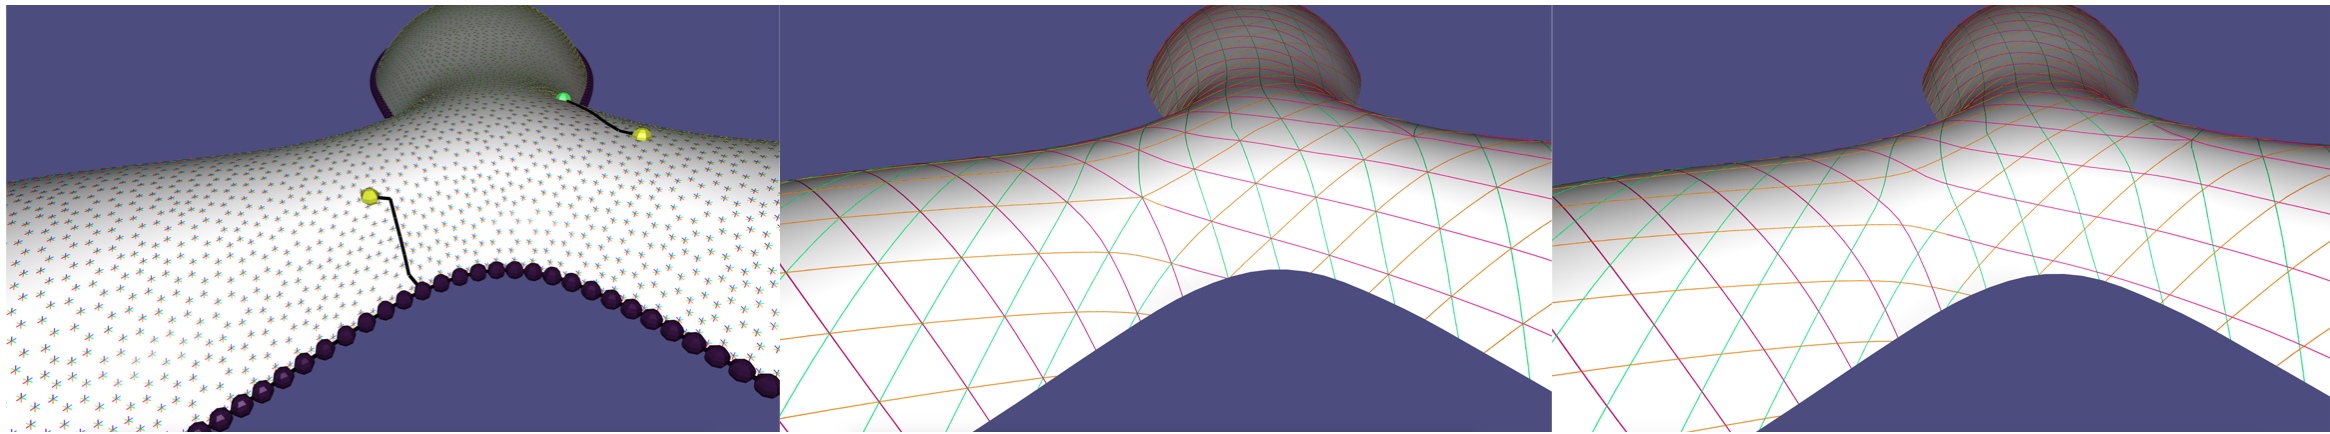
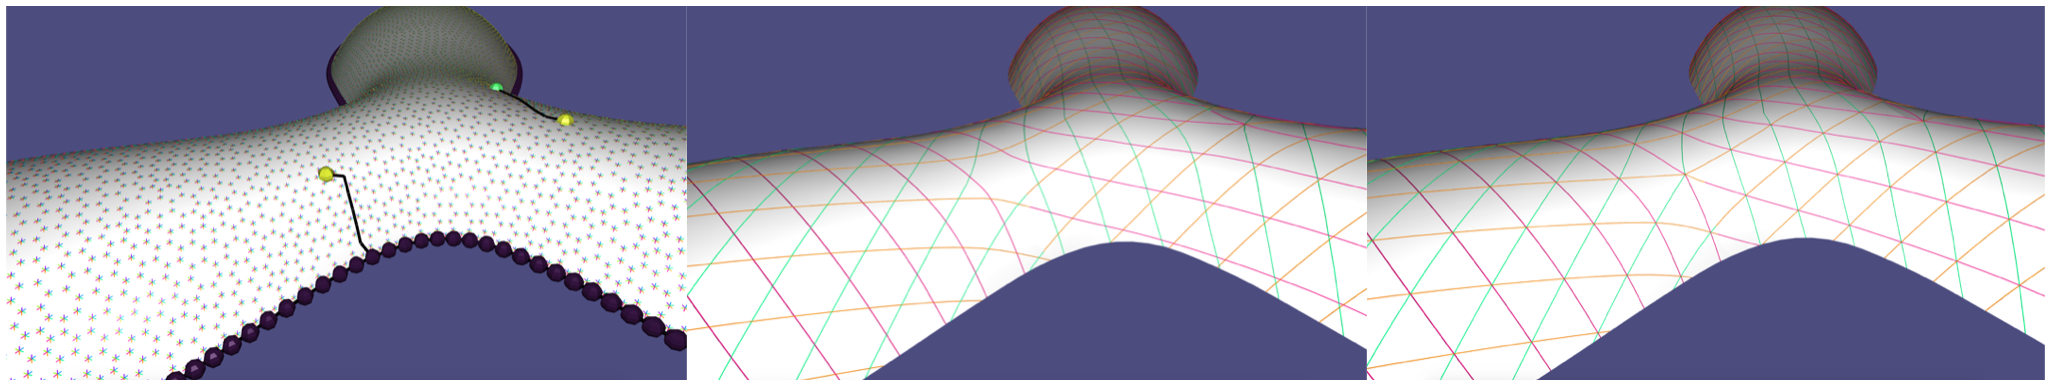
Tutorial is complete.

Changed region(s): [[0.0, 0.0, 1.0, 1.0], [0.1873, 0.0576, 0.2185, 0.144]]

diff --git a/docs/tutorial.md b/docs/tutorial.md
@@ -263,9 +263,9 @@ The singularity indices that are prescribed contain the singularity index corres
 
 The full details of the method implemented in this chapter can be found in a technical report [^Vaxman_2021]. Many of the therotical ideas for general $N$-functions are explored in[^Meekes_2021].
 
-$N$-Directional fields are commonly used as candidate gradients to seamless $N$-Functions, which in turn are used to generate meshes that are aligned to the original fields [^Bommes_2009],[^Kaelberer_2007],[^Myles_2014],[^Meekes_2021]. Recall that [combing](#203-combing) trivializes the matching everywhere except a sparse set of seams. We augment these seams so that the mesh is cut into a topological disc. Then, we treat a combed $N$-directional $\left\{u_0,\cdots,u_{N-1}\right\}$ as a set of $N$ candidate gradients for $N$ vertex-based scalar functions $\left\{F_0,\cdots,F_{N-1}\right\}$ on the cut mesh. We then solve the Poisson problem:
+$N$-Directional fields are commonly used as candidate gradients to seamless $N$-Functions, which are in turn used to generate meshes that are aligned to the original fields [^Bommes_2009],[^Kaelberer_2007],[^Myles_2014],[^Meekes_2021]. Recall that [combing](#203-combing) trivializes the matching everywhere except a sparse set of seams. We augment these seams so that the mesh is cut into a topological disc. Then, we treat a combed $N$-directional $\left\{u_0,\cdots,u_{N-1}\right\}$ as a set of $N$ candidate gradients for $N$ vertex-based scalar functions $\left\{F_0,\cdots,F_{N-1}\right\}$ on the cut mesh. We then solve the Poisson problem:
 
-$$F = argmin{\sum_{i=0}^{N-1}{\left|\nabla F_i - u_i\right|^2}}$$.
+$$F = argmin{\sum_{i=0}^{N-1}{\left|\nabla F_i - u_i\right|^2}}$$
 
 Consider a seam edge $e_{ij}$ between original vertices $v_i$ and $v_j$, and between adjacent faces $f_k$ and $f_l$. The two vertices are then cut into four corners $v_{i,k},v_{j,k},v_{i,l},v_{j,l}$. Note that some corners might be identical, if the seam edge is at a singularity. Across the seam edge, we enforce the (linear) seamless conditions:
 
@@ -317,7 +317,7 @@ bool localInjectivity;  //Enforce local injectivity; might result in failure!
 
 ### 502 Integration in various orders
 
-Directional can handle integration for every $N$, including less common ones like the non-periodic $N \neq 2,3,4,6$. The properties of fields and integration in such unconventional $N$ are explored in [Meekes_2021].
+Directional can handle integration for every $N$, including less common ones like the non-periodic $N \neq 2,3,4,6$. The properties of fields and integration in such unconventional $N$ are explored in [^Meekes_2021].
 
 In this example we demonstrate the results for $N=2,4,7,11$, for the same ```lengthRatio```, and all fully seamless. Note that the density of the isolines increases with $N$, and that we round the singularity function values, leading to junctions of multiple isolines meeting. This is demonstrated in [Example 502]({{ repo_url }}/tutorial/502_DifferentOrders/main.cpp). 
 
@@ -326,20 +326,20 @@ In this example we demonstrate the results for $N=2,4,7,11$, for the same ```len
 
 ### 503 Rounding either seams or singularities
 
-It is possible to choose whether to round $T_e \in \mathbb{Z}^N$ directly, or the values around singularities (and of topological handles, in case of non-simply-connected topology). In both cases the seams will be integer, but the latter case is more restrictive and will result in multiple isolines meeting in every singularity.
+It is possible to choose whether to round the seam jumps $T_e \in \mathbb{Z}^N$ directly, or the function values around singularities (and of topological handles, in case of non-simply-connected topology). In both cases the seams will have integer values, but the latter case is more restrictive and will result in multiple isolines meeting at every singularity. For quad meshes with $N=4$, for instance, this is the difference between pure-quad results (round singularities), or just quad-dominant (round seams).
 
 ![([Example 503]({{ repo_url }}/tutorial/503_SeamsSingsRounding/main.cpp)) Left to right (bottom is zoom-in of top): Field, rounding only seams (leading to the right singularity being offset), and rounding singularity function values directly.](images/503_SeamsSingsRounding.png)
 
 ### 504 Linear Reductions
 
-It is possible to constrain the functions to have linear relations between them, which reduce the degrees of freedom. This is done by inputting a matrix $U: N \times n$ so that $n \leq N$, and where $F = U\cdot f$. This relationship should be mirrored in the integrated directional field. *Warning*: not every linear reduction is suitable for integration on surfaces! it needs to commute with the permutation around singularities. Feeding an incompatible linear reduction might then result in a failure of the algorithm. One popular example is triangular symmetry where $U = [1 0; 0 1; -1 -1]$ (in the case where $n=2$ and $N=3$). Another is sign symmetry where $U = [Id; -Id]$, and $n = \frac{N}{2}$. The latter is always assumed when $N$ is even, and both are always valid in any singularity configuration. Symmetries can also be combined. $U$ is fed into ```intData``` through the field ```linRed```, and there are pre-made funtcions to set it, such as ```set_triangular_symmetry(int N)```.
+It is possible to constrain the functions to have linear relations between them, which reduce the degrees of freedom. This is done by inputting a matrix $U: N \times n$ so that $n \leq N$, and where $F = U\cdot f$ for the independent degrees of freedom encoded in $f$. This relationship should be mirrored in the integrated directional field. *Warning*: not every linear reduction is suitable for integration on surfaces! it needs to commute with the permutation around singularities. Feeding an incompatible linear reduction might then result in a failure of the algorithm. One popular example is triangular symmetry where $U_{3 \times 2} = [1, 0; 0, 1; -1, -1]$. Another is sign symmetry where $U = [Id_{n \times n}; -Id_{n \times n}]$, and $n = \frac{N}{2}$. The latter is always assumed when $N$ is even, and both are always valid in any singularity configuration. Symmetries can also be combined. $U$ is fed into ```intData``` through the field ```linRed```, and there are pre-made funtcions to set it, such as ```set_triangular_symmetry(int N)```.
 
 
 ![([Example 504]({{ repo_url }}/tutorial/504_LinearReductions/main.cpp)) Left to right: $6$-directional fields with a singularity, $N=6$ with only sign symmetry (the three lines don't always meet at all intersections), and the same with added triangular symmetry, where the intersections are enforced.](images/504_LinearReductions.png)
 
 ### 505 Meshing
 
-This subchapter demonstrates how we can create an actual polygonal mesh from the arrangement of isolines on the surface. This creates an arrangement of lines (in exact numbers) on every triangle, and stitches them together. The new mesh is given in libhedra format^[libhedra] of $(V,D,F)$, where $D$ is a vector $|F| \times 1$ of face degrees, and $F$ is a $|F| \times max(D)$ matrix of indices into $V$. 
+This subchapter demonstrates how we can create an actual polygonal mesh from the arrangement of isolines on the surface. This creates an arrangement of lines (in exact numbers) on every triangle, and stitches them together across triangles to get a complete conforming mesh. The new mesh is given in libhedra format[^libhedra] of $(V,D,F)$, where $D$ is a vector $|F| \times 1$ of face degrees, and $F$ is a $|F| \times max(D)$ matrix of indices into $V$. 
 
 The meshing unit is independent from the integration unit, and can be potentially used with external functions; one should fill the ```MeshFunctionIsolinesData``` structure with the input, and call ```mesh_function_isolines()```.
 
@@ -350,11 +350,7 @@ There is a natural transition between the integrator and the mesher, which is do
 
 The meshing function requires CGAL as a dependency, which is operated through the libigl CGAL dependency mechanism.
 
-![([Example 505]({{ repo_url }}/tutorial/505_Meshing/main.cpp)) Left to right: polygonal meshes of the arrangements of isolines from the N=4,7,11 examples ($N=2$ is not yet supported) in Example 502. The screenshots are from Meshlab[^Meshlab]](images/505_Meshing.png)
-
-
-
-
+![([Example 505]({{ repo_url }}/tutorial/505_Meshing/main.cpp)) Left to right: polygonal meshes of the arrangements of isolines from the N=4,7,11 examples ($N=2$ is not yet supported) in [Example 502](#502-integration-in-various-orders). The screenshots are from Meshlab[^Meshlab]](images/505_Meshing.png)
 
 ## Chapter 6: Subdivision Fields
 
@@ -402,3 +398,4 @@ Directional is a budding project, and there are many algorithms in the state-of-
 [^Vaxman_2021]: Amir Vaxman  [Directional Technical Reports: Seamless Integration](https://osf.io/s5ack/), 2021.
 [^Meekes_2021]: Merel Meekes, Amir Vaxman [Unconventional Patterns on Surfaces] (https://webspace.science.uu.nl/~vaxma001/Unconventional_Patterns_on_Surfaces.pdf), 2021.
 [^Meshlab]: P. Cignoni, M. Callieri, M. Corsini, M. Dellepiane, F. Ganovelli, G. Ranzuglia, [MeshLab: an Open-Source Mesh Processing Tool](https://www.meshlab.net/).
+[^libhedra]: Amir Vaxman and others, [libhedra: geometric processing and optimization of polygonal meshes](https://github.com/avaxman/libhedra).
